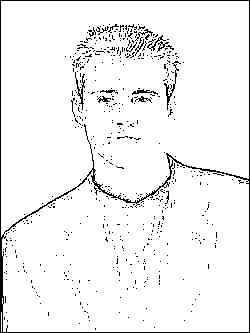
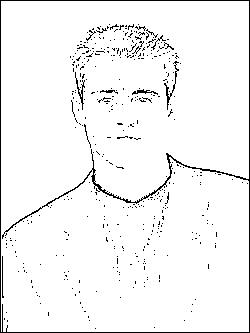
Added image opening

diff --git a/extract_blocks.py b/extract_blocks.py
@@ -1,6 +1,9 @@
 import numpy as np
 from PIL import Image
 from scipy.ndimage import convolve
+import cv2
+from skimage.morphology import (erosion, dilation, closing, opening,
+                                area_closing, area_opening)
 
 def preprocess(image_name):
     # Tunable parameters. Can play around with these
@@ -8,7 +11,14 @@ def preprocess(image_name):
     threshold = 50 # Threshold for binary image
 
     im = np.array(Image.open(image_name).convert("L"))
-    
+
+    # Opening operation
+    element = np.array([[0,1,0],
+                    [1,1,1],
+                    [0,1,0]])
+    im = opening(im, element)
+
+    # Boost filtering
     dx_filter = np.array([[-1, 0, 1], [-2, 0, 2], [-1, 0, 1]], np.float32)
     dy_filter = np.array([[1, 2, 1], [0, 0, 0], [-1, -2, -1]], np.float32)
 
@@ -49,8 +59,8 @@ def preprocess(image_name):
             else:
                 boosted_im[i][j] = 0
 
-    # new_img = Image.fromarray(boosted_im.astype(np.uint8))
-    # new_img.save("boosted.jpg")
+    new_img = Image.fromarray(boosted_im.astype(np.uint8))
+    new_img.save("boosted.jpg")
     return boosted_im
 
             
